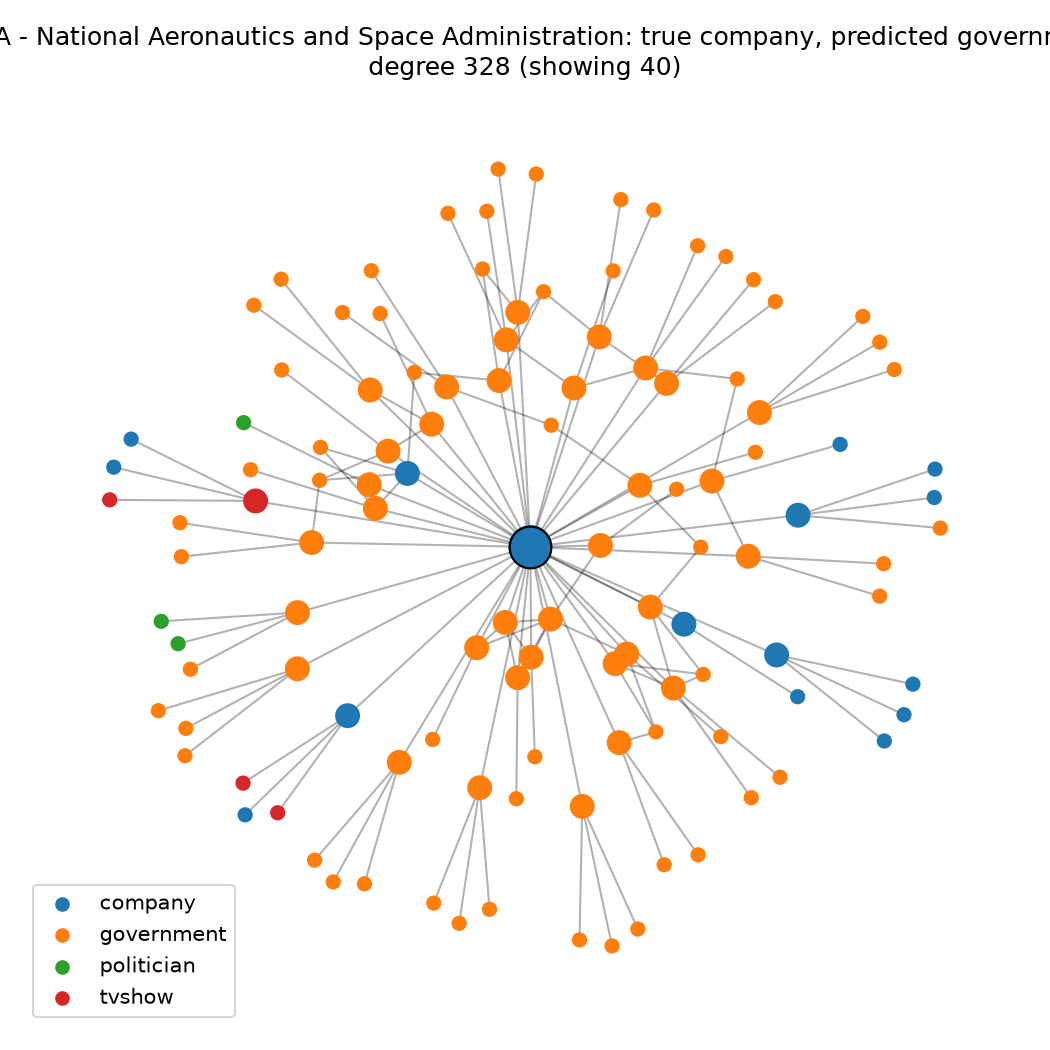
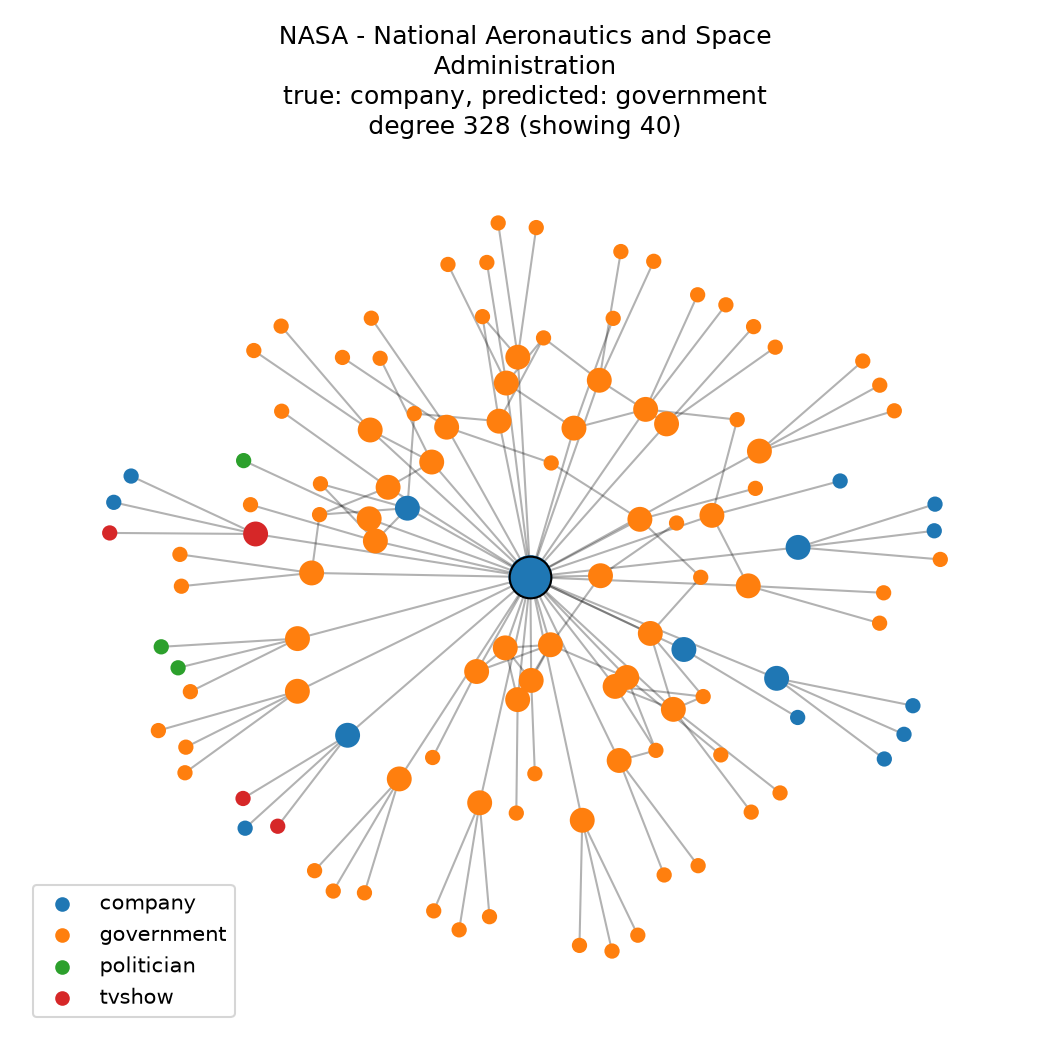
Wrap long page names in neighbourhood plot titles

diff --git a/recognition/GNN_49250523/predict.py b/recognition/GNN_49250523/predict.py
@@ -16,6 +16,7 @@ import csv
 import glob
 import json
 import os
+import textwrap
 import time
 
 import matplotlib.pyplot as plt
@@ -281,7 +282,8 @@ def plot_neighbourhood(data: Data, node: int, pred: int, path: str, cap: int = 4
         ax.scatter([], [], color=f"C{c}", label=cls)
     ax.legend(loc="lower left")
     ax.set_title(
-        f"{names[node]}: true {CLASS_NAMES[int(data.y[node])]}, predicted {CLASS_NAMES[pred]}\n"
+        f"{textwrap.fill(names[node], 50)}\n"
+        f"true: {CLASS_NAMES[int(data.y[node])]}, predicted: {CLASS_NAMES[pred]}\n"
         f"degree {len(dst[src == node])} (showing {len(hop1)})"
     )
     ax.axis("off")
